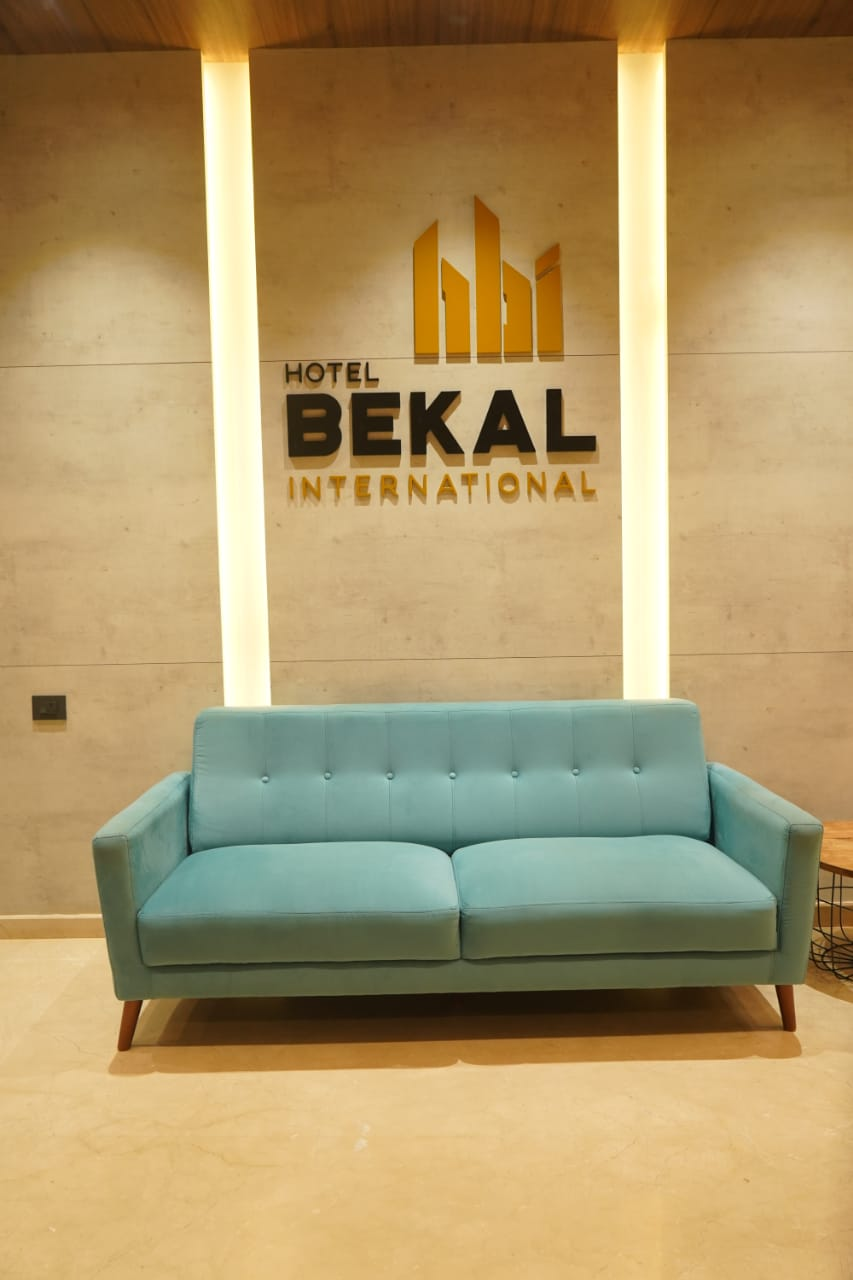
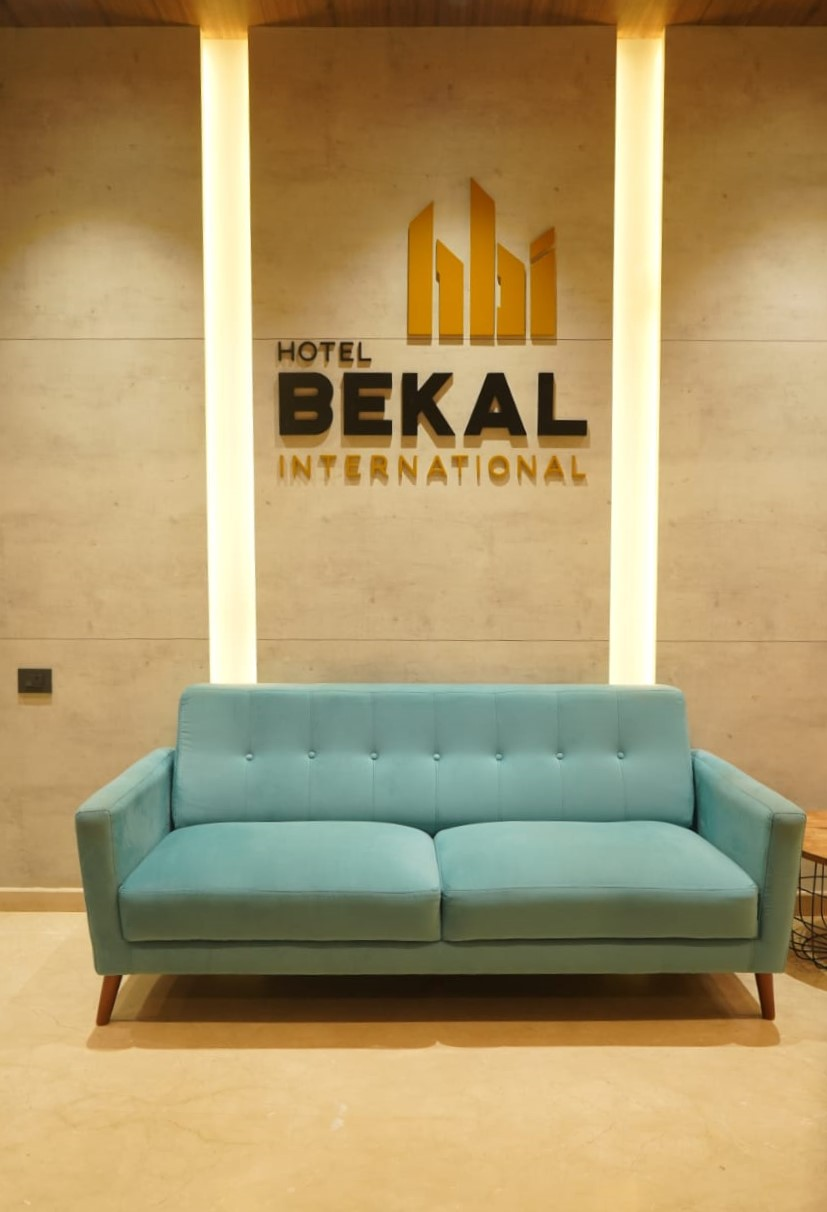
updt

diff --git a/about.html b/about.html
@@ -121,8 +121,8 @@
                         </div>
                     </div>
                 </div>
-                <div class="col col-md-3 animate-box" data-animate-effect="fadeInUp"> <img src="assets/img/rooms/8.jpg" alt="" class="mt-90 mb-30"> </div>
-                <div class="col col-md-3 animate-box" data-animate-effect="fadeInUp"> <img src="assets/img/rooms/2.jpg" alt=""> </div>
+                <div class="col col-md-3 animate-box" data-animate-effect="fadeInUp"> <img src="assets/img/bekal/hotel/img.jpeg" alt="" class="mt-90 mb-30"> </div>
+                <div class="col col-md-3 animate-box" data-animate-effect="fadeInUp"> <img src="assets/img/bekal/hotel/img1.jpeg" alt=""> </div>
             </div>
         </div>
     </section>

diff --git a/standardRoom.html b/standardRoom.html
@@ -91,7 +91,7 @@
     <header class="header slider">
         <div class="owl-carousel owl-theme">
             <!-- The opacity on the image is made with "data-overlay-dark="number". You can change it using the numbers 0-9. -->
-            <div class="text-center item bg-img" data-overlay-dark="3" data-background="assets/img/slider/3.jpg"></div>
+            <div class="text-center item bg-img" data-overlay-dark="3" data-background="assets/img/bekal/hotel/img7.jpeg"></div>
             <div class="text-center item bg-img" data-overlay-dark="3" data-background="assets/img/slider/2.jpg"></div>
             <div class="text-center item bg-img" data-overlay-dark="3" data-background="assets/img/slider/5.jpg"></div>
         </div>

diff --git a/index.html b/index.html
@@ -157,10 +157,10 @@
                     </div>
                 </div>
                 <div class="col col-md-3 animate-box" data-animate-effect="fadeInUp">
-                    <img src="assets/img/rooms/8.jpg" alt="" class="mt-90 mb-30">
+                    <img src="assets/img/bekal/hotel/img1.jpeg" alt="" class="mt-90 mb-30">
                 </div>
                 <div class="col col-md-3 animate-box" data-animate-effect="fadeInUp">
-                    <img src="assets/img/rooms/2.jpg" alt="">
+                    <img src="assets/img/bekal/hotel/img.jpeg" alt="">
                 </div>
             </div>
         </div>
